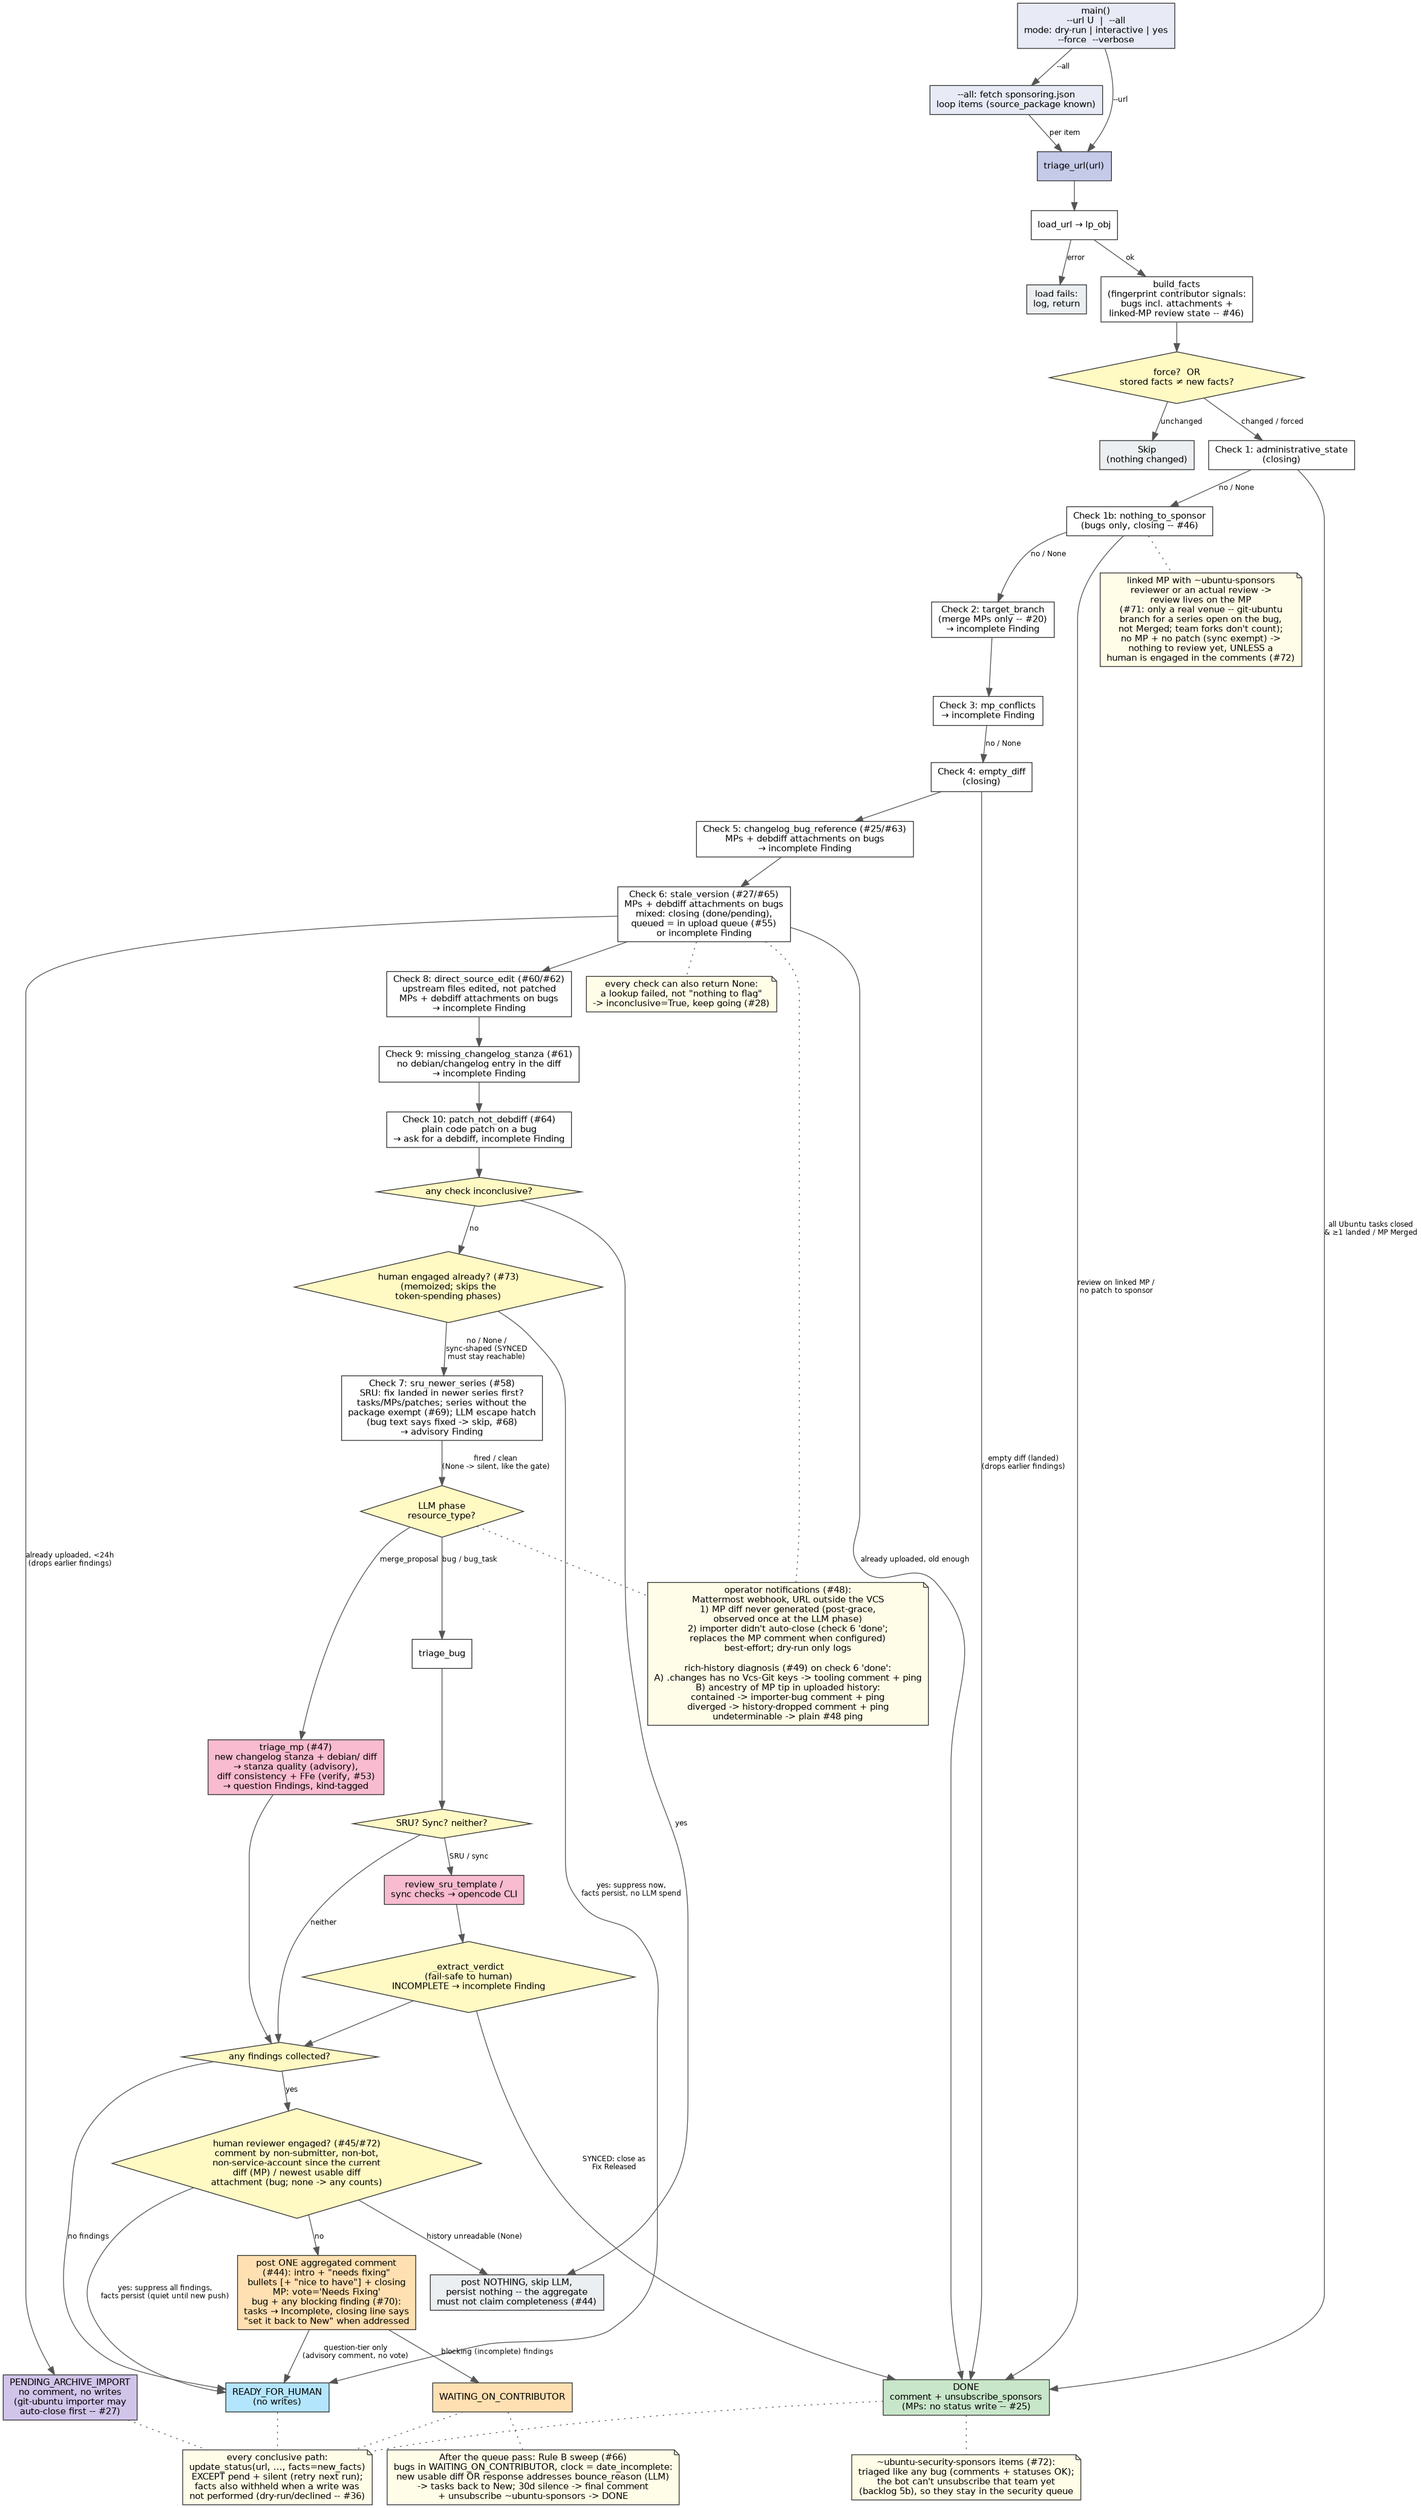
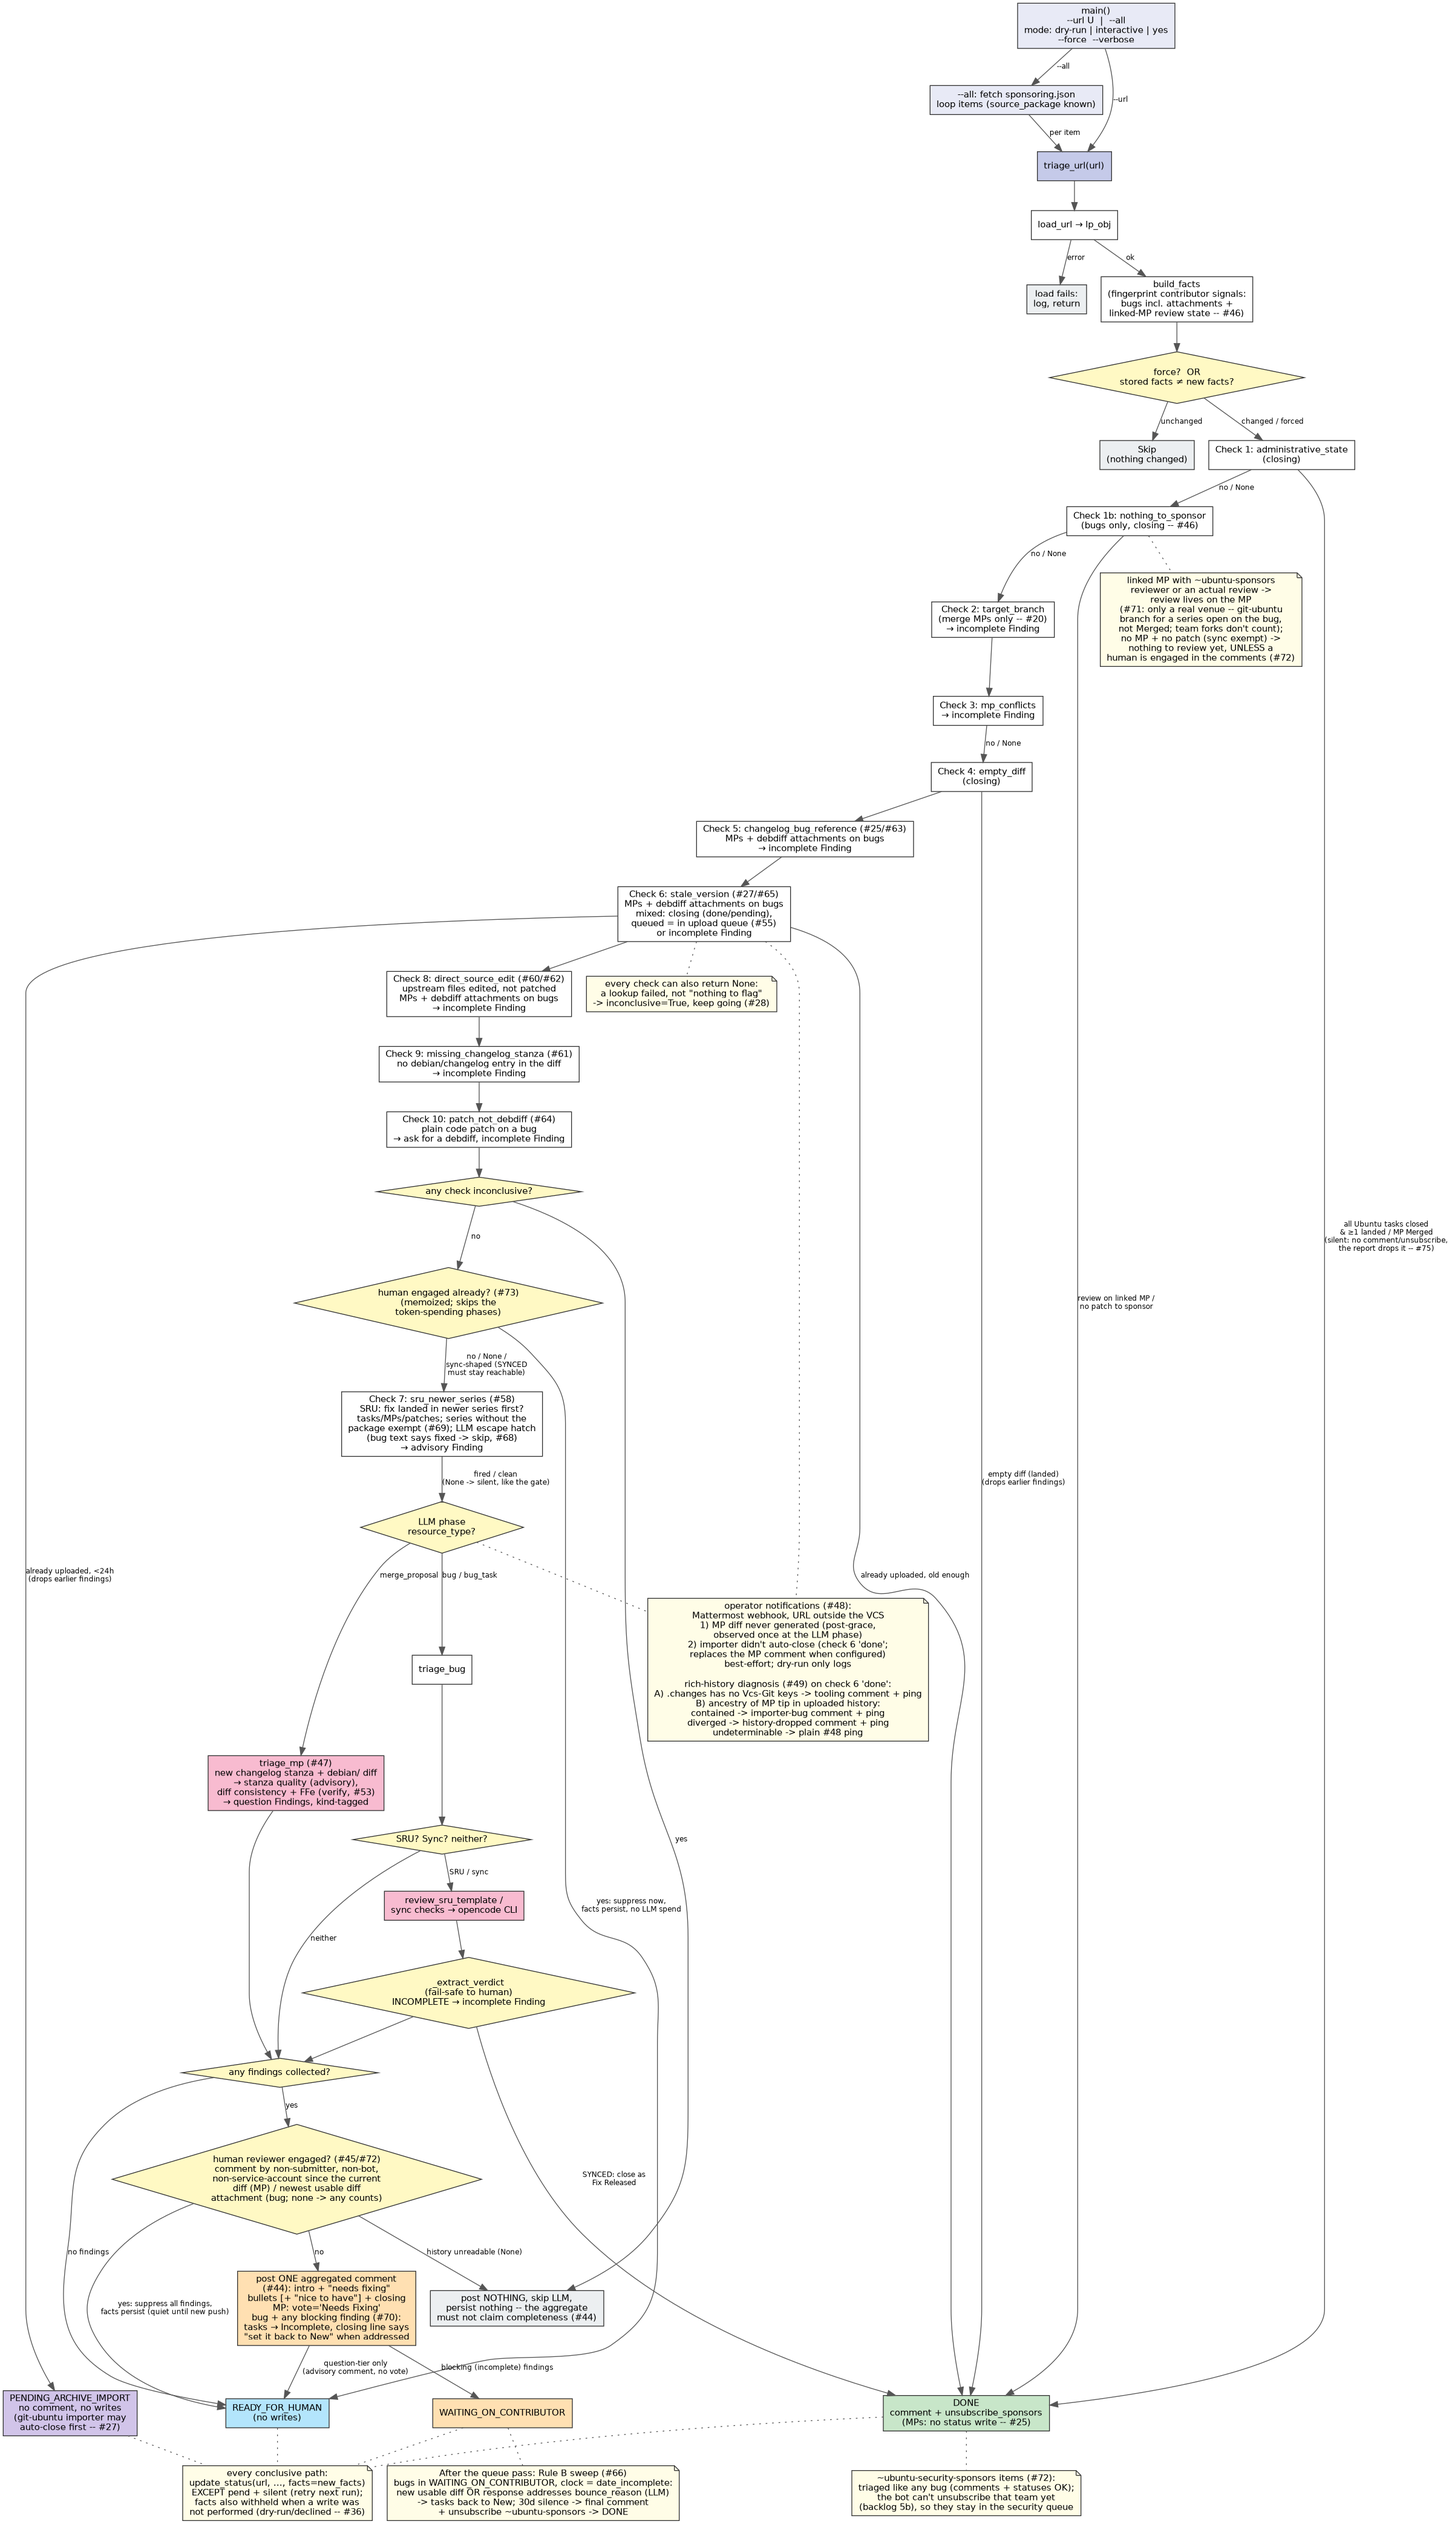
Check 1 closes silently: no comment/unsubscribe on resolved bugs (#75)

diff --git a/checks.py b/checks.py
@@ -316,17 +316,14 @@ def check_administrative_state(url, lp_obj, lp_client, source_package=None):
         summary = ", ".join(
             sorted(f"{task.bug_target_name}: {task.status}" for task in tasks)
         )
+        # Silent, like the MP branch: closed bugs drop off the next
+        # sponsoring-report build on their own, so a comment would be
+        # noise and unsubscribing changes nothing (#75).
         logger.info(
-            "[%s] all relevant Ubuntu tasks resolved (%s). Unsubscribing ~ubuntu-sponsors.",
+            "[%s] all relevant Ubuntu tasks resolved (%s). No action needed.",
             url,
             summary,
         )
-        lp_client.comment(
-            bug,
-            f"This request appears complete for Ubuntu ({summary}). "
-            f"Cleaning up the queue by unsubscribing ~ubuntu-sponsors.",
-        )
-        lp_client.unsubscribe_sponsors(bug)
         return True
 
     return False

diff --git a/tests/test_admin_check.py b/tests/test_admin_check.py
@@ -16,9 +16,14 @@ class _LP:
 
 
 def _run(tasks, pkg):
-    return checks.check_administrative_state(
-        "url", FakeBug(tasks=tasks), _LP(), source_package=pkg
+    lp = _LP()
+    fired = checks.check_administrative_state(
+        "url", FakeBug(tasks=tasks), lp, source_package=pkg
     )
+    # #75: this check never writes -- closed bugs drop off the next
+    # sponsoring-report build on their own.
+    assert lp.acted is False
+    return fired
 
 
 def test_upstream_done_but_ubuntu_open_does_not_unsubscribe():

diff --git a/design_journal.md b/design_journal.md
@@ -714,3 +714,18 @@ files; regenerate with `dot -Tpng flow.dot -o flow.png`, likewise `-Tsvg`):
 * Follow-up idea (backlog 5c): add a "most recent update" timestamp per
   entry on the report side, enabling incremental "what changed since the
   last pass" runs instead of full-queue walks.
+
+## 75. Check 1 closes silently (2026-07-13)
+
+* Trigger: giflib sync bug #2158776, sponsored minutes earlier by seb128;
+  the bot proposed a "request appears complete... unsubscribing
+  ~ubuntu-sponsors" comment on the freshly Fix Released bug.
+* seb128: a bug with no open task / Fix Released is a plain skip -- it
+  drops off the next sponsoring-report build by itself, the comment is
+  noise, and unsubscribing makes no difference since fix-released items
+  aren't included in the report anyway.
+* `check_administrative_state`'s bug branch now mirrors its MP branch:
+  log + return True, no comment, no unsubscribe. Status stays DONE with
+  facts persisted (no write needed, so nothing to gate on -- same as the
+  Merged-MP path). test_admin_check.py's harness now asserts the check
+  never writes.
